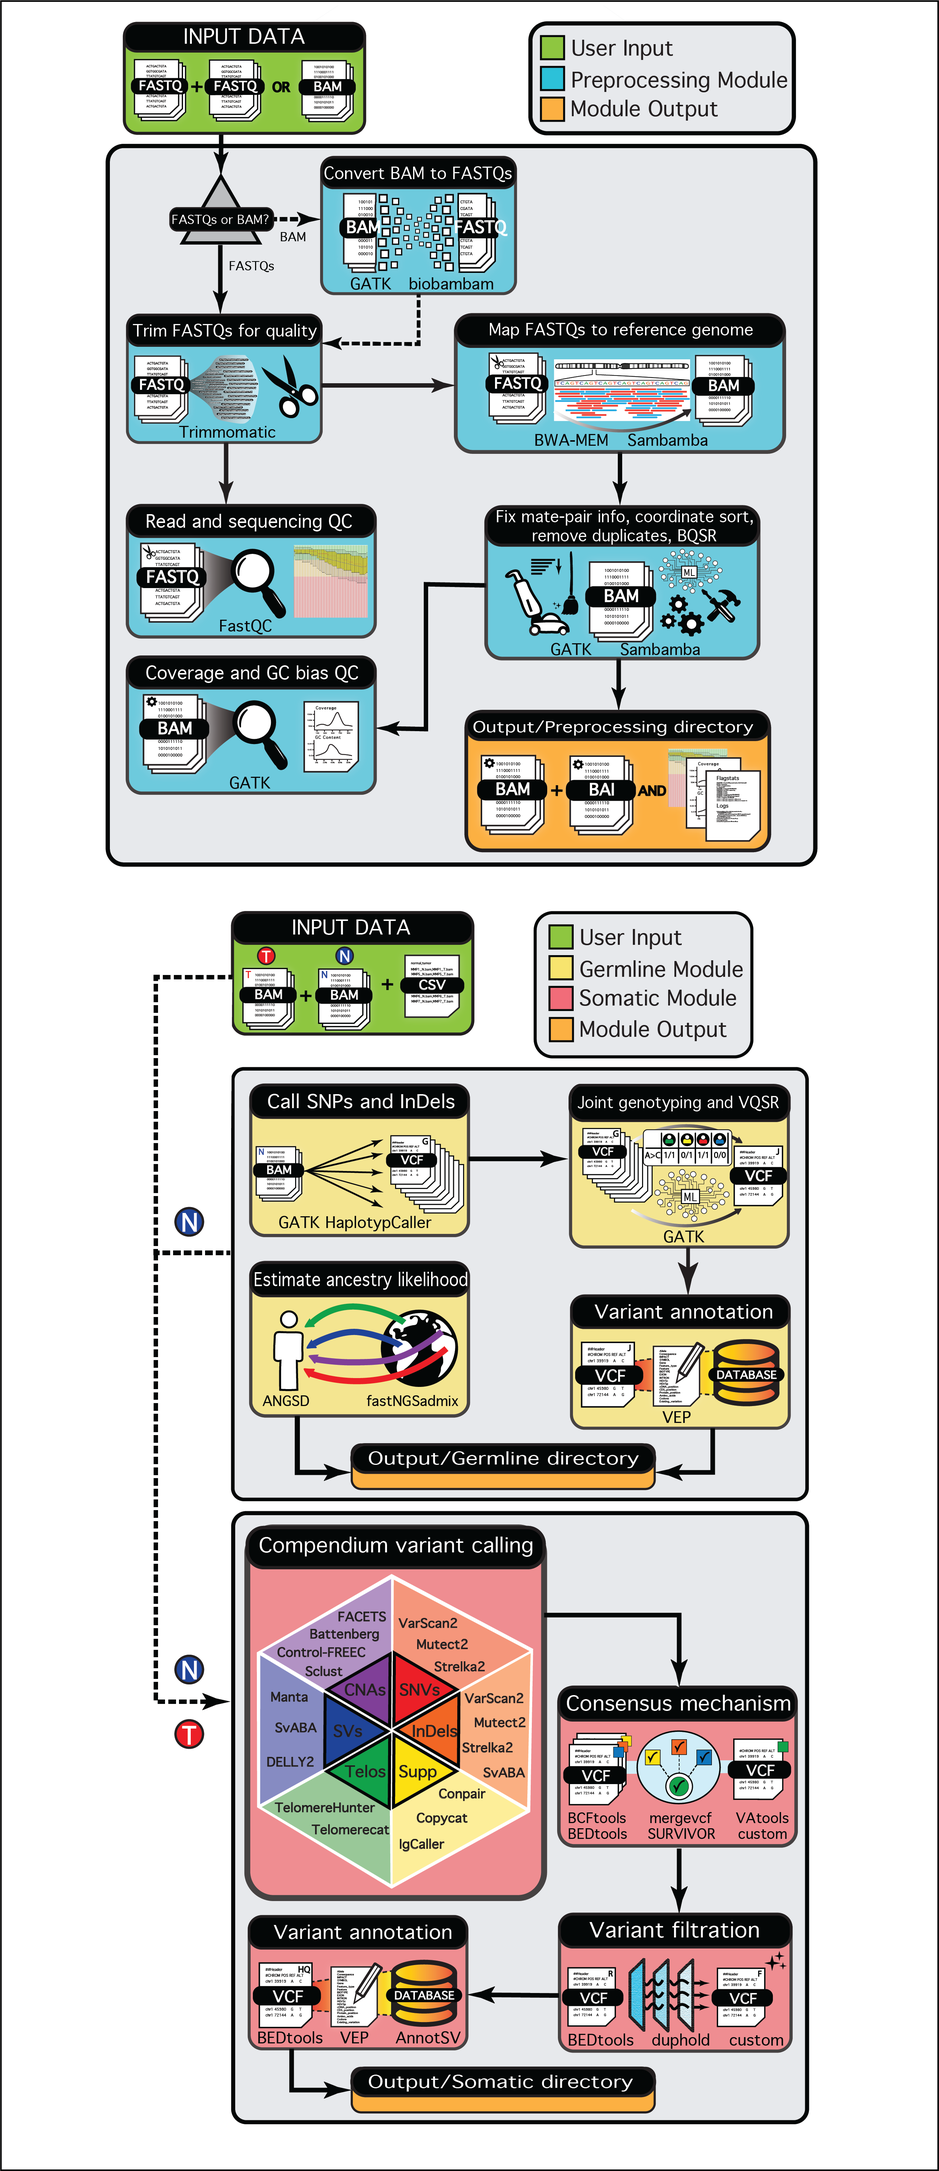
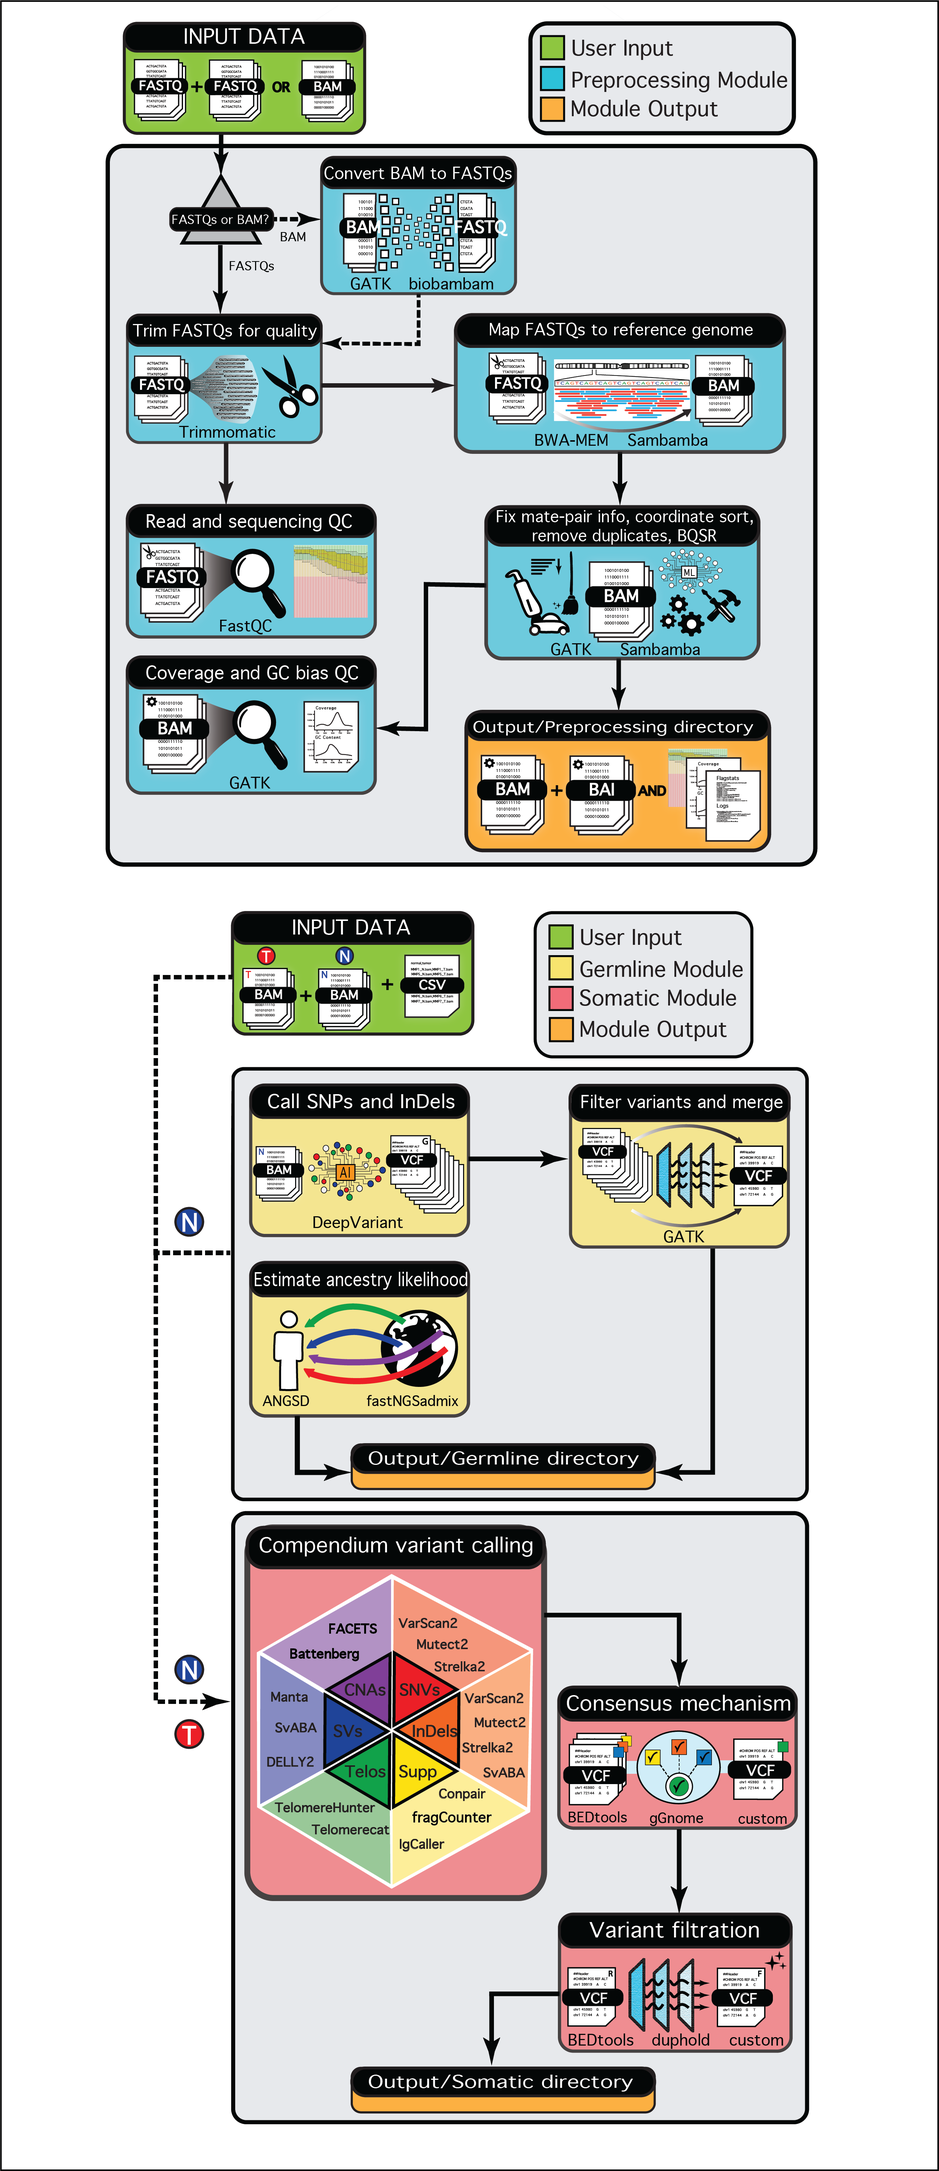
readme update for push to master

diff --git a/README.md b/README.md
@@ -1,5 +1,5 @@
 <div align="center">
-	<img alt="MGP1000 logo" src="https://raw.githubusercontent.com/pblaney/mgp1000/4c6c86d956b30e6b64bdad50619c9f5b76cee2d9/docs/mgp1000Logo.svg" width="275" />
+	<img alt="MGP1000 logo" src="https://raw.githubusercontent.com/pblaney/mgp1000/4c6c86d956b30e6b64bdad50619c9f5b76cee2d9/docs/mgp1000Logo.svg" width="250" />
 
 # Myeloma Genome Pipeline 1000
 Comprehensive bioinformatics pipeline for the large-scale collaborative analysis of Multiple Myeloma genomes in an effort to delineate the broad spectrum of somatic events
@@ -10,7 +10,7 @@ In order to analyze over one thousand matched tumor/normal whole-genome samples 
 
 The entire pipeline is divided into 3 modules: Preprocessing, Germline, and Somatic
 <div align="center">
-	<img alt="Pipeline flowchart" src="https://github.com/pblaney/mgp1000/blob/development/docs/pipelineArchitectureForGitHub.png?raw=true" width="575" />
+	<img alt="Pipeline flowchart" src="https://github.com/pblaney/mgp1000/blob/development/docs/pipelineArchitectureForGitHub.png?raw=true" width="475" />
 </div>
 
 ## Deploying the Pipeline
@@ -122,13 +122,13 @@ $ nextflow run preprocessing.nf --help
 Usage:
   nextflow run preprocessing.nf --run_id STR --input_format STR -profile preprocessing
   [-bg] [-resume] [--lane_split STR] [--input_dir PATH] [--output_dir PATH] [--email STR]
-  [--cpus INT] [--memory STR] [--queue_size INT] [--executor STR] [--help]
+  [--seq_protocol STR][--cpus INT] [--memory STR] [--queue_size INT] [--executor STR] [--help]
 
 Mandatory Arguments:
   --run_id                       STR  Unique identifier for pipeline run
   --input_format                 STR  Format of input files
                                       [Default: fastq | Available: fastq, bam]
-  -profile                       STR  Configuration profile to use, must use preprocessing
+  -profile                       STR  Configuration profile to use, must use preprocessing                               
 
 Main Options:
   -bg                           FLAG  Runs the pipeline processes in the background, this
@@ -149,6 +149,9 @@ Main Options:
                                       [Default: output/]
   --email                        STR  Email address to send workflow completion/stoppage
                                       notification
+  --seq_protocol                 STR  Sequencing protocol of the input, WGS for whole-genome
+                                      and WES for whole-exome
+                                      [Default: WGS | Available: WGS, WES]
   --cpus                         INT  Globally set the number of cpus to be allocated
   --memory                       STR  Globally set the amount of memory to be allocated,
                                       written as '##.GB' or '##.MB'
@@ -184,17 +187,12 @@ make preprocessing-completion
 ## Run the Germline Module
 The most important component of this module of the pipeline is the user-provided sample sheet CSV. This file includes two comma-separated columns: filename of normal sample BAMs and filename of corresponding paired tumor sample BAMs. An example of this is provided in `samplesheet.csv` within the `testSamples` directory. The sample sheet file should typically be within the main `mgp1000` directory.
 
-### Note on Parameters
-There are is a parameter that will prepare necessary reference files as part of this module of the pipeline, `--vep_ref_cached`. This parameter only need be set to `no` for the **first run** of the Germline module.
-
 ```
 nextflow run germline.nf \
   -bg \
   --run_id batch1 \
   --sample_sheet wgs_samples.csv \
-  --cohort_name wgs_set \
   --email user@example.com \
-  --vep_ref_cached no \
   -profile germline
 ```
 
@@ -203,9 +201,9 @@ Here is the full help message for the Germline module.
 $ nextflow run germline.nf --help
 
 Usage:
-  nextflow run germline.nf --run_id STR --sample_sheet FILE --cohort_name STR -profile germline
-  [-bg] [-resume] [--input_dir PATH] [--output_dir PATH] [--email STR] [--fastngsadmix_only STR]
-  [--vep_ref_cached STR] [--cpus INT] [--memory STR] [--queue_size INT] [--executor STR] [--help]
+  nextflow run germline.nf --run_id STR --sample_sheet FILE -profile germline [-bg] [-resume]
+     [--input_dir PATH] [--output_dir PATH] [--email STR] [--fastngsadmix STR] [--seq_protocol STR]
+     [--cpus INT] [--memory STR] [--queue_size INT] [--executor STR] [--help]
 
 Mandatory Arguments:
   --run_id                       STR  Unique identifier for pipeline run
@@ -213,8 +211,6 @@ Mandatory Arguments:
                                       first column designates the file name of the normal
                                       sample, the second column for the file name of the
                                       matched tumor sample
-  --cohort_name                  STR  A user defined collective name of the group of
-                                      samples, this will be used as the name of the output
   -profile                       STR  Configuration profile to use, must use germline
 
 Main Options:
@@ -234,15 +230,14 @@ Main Options:
                                       [Default: output/]
   --email                        STR  Email address to send workflow completion/stoppage
                                       notification
-  --fastngsadmix_only            STR  Indicates whether or not to only run the fastNGSadmix
+  --seq_protocol                 STR  Sequencing protocol of the input, WGS for whole-genome
+                                      and WES for whole-exome
+                                      [Default: WGS | Available: WGS, WES]
+  --deepvariant                  STR  Indicates whether or not to run DeepVariant workflow
+                                      [Default: on | Available: on, off]
+  --fastngsadmix                 STR  Indicates whether or not to only run the fastNGSadmix
                                       workflow
-                                      [Default: no | Available: no, yes]
-  --vep_ref_cached               STR  Indicates whether or not the VEP reference files used
-                                      for annotation have been downloaded/cached locally,
-                                      this will be done in a process of the pipeline if it
-                                      has not, this does not need to be done for every
-                                      separate run after the first
-                                      [Default: yes | Available: yes, no]
+                                      [Default: on | Available: on, off]
   --cpus                         INT  Globally set the number of cpus to be allocated
   --memory                       STR  Globally set the amount of memory to be allocated,
                                       written as '##.GB' or '##.MB'
@@ -254,14 +249,13 @@ Main Options:
 ```
 
 ### Germline Output Description
-This module of the pipeline generates a per-cohort joint genotyped VCF and admixture estimation of individual ancestries in the context of 23 populations outlined in the 1000 Genomes Project. By default, all output files are stored into a subdirectory which is named based on the user-defined `--cohort_name` parameter within the `output/` directory.
+This module of the pipeline generates a per-patient VCF and admixture estimation of individual ancestries in the context of 23 populations outlined in the 1000 Genomes Project. By default, all output files are stored within the `output/` directory.
 
-Here is a snapshot of the expected subdirectories within the `output/germline/[cohort_name]` base directory after a successful run of the [Germline module](https://github.com/pblaney/mgp1000/wiki/Germline):
+Here is a snapshot of the expected subdirectories within the `output/germline/` base directory after a successful run of the [Germline module](https://github.com/pblaney/mgp1000/wiki/Germline):
 
 | Germline Output File | Description of File |
 | --- | --- |
-| `*.germline.annotated.vcf.gz` | filtered and annotated germline SNP VCF |
-| `*.germline.vep.summary.html` | annotation summary HTML file for SNPs |
+| `*.deepvariant.germline.snp.indel.vcf.gz` | germline SNP and InDel VCF |
 | `*.fastngsadmix.23.qopt` | per patient estimated admixture proportions, first two rows with the names of the populations analyzed and the converged upon estimates, and then 100 rows with the bootstrapping estimates |
 
 Upon completion of the Germline module there is a `make germline-completion` command that is useful for collecting the run-related logs.
@@ -274,7 +268,7 @@ make germline-completion
 This module uses the same user-provided sample sheet CSV as the Germline module.
 
 ### Note on Parameters
-There are three parameters that will prepare necessary reference files as part of this module of the pipeline: `--mutect_ref_vcf_concatenated`, `--annotsv_ref_cached`, and `--vep_ref_cached`. These parameters only need be set to `no` for the **first run** of the Somatic module of the pipeline. By default, all tools in this module will be used with the standard command in the usage example. The consensus output per variant type expects all tools to be included in the run for consensus processes to be run.
+There is one parameter that will prepare necessary reference file as part of this module of the pipeline: `--mutect_ref_vcf_concatenated`. This parameters only needs be set to `no` for the **first run** of the Somatic module of the pipeline. By default, all tools in this module will be used with the standard command in the usage example. The consensus output per variant type expects all tools to be included in the run for consensus processes to be run.
 ```
 nextflow run somatic.nf --help
 
@@ -313,25 +307,13 @@ Main Options:
                                       concatenated, this will be done in a process of the
                                       pipeline if it has not, this does not need to be done
                                       for every separate run after the first
-                                      [Default: yes | Available: yes, no]
+                                      [Default: no | Available: yes, no]
   --battenberg_ref_cached        STR  Indicates whether or not the reference files used for
                                       Battenberg have been downloaded/cached locally, this
                                       will be done in a process of the pipeline if it has
                                       not, this does not need to be done for every separate
                                       run after the first
-                                      [Default: yes | Available: yes, no]
-  --annotsv_ref_cached           STR  Indicates whether or not the AnnotSV reference filee
-                                      used for annotation have been downloaded/cached
-                                      locally, this will be done in a process of the
-                                      pipeline if it has not, this does not need to be done
-                                      for every separate run after the first
-                                      [Default: yes | Available: yes, no]
-  --vep_ref_cached               STR  Indicates whether or not the VEP reference files used
-                                      for annotation have been downloaded/cached locally,
-                                      this will be done in a process of the pipeline if it
-                                      has not, this does not need to be done for every
-                                      separate run after the first
-                                      [Default: yes | Available: yes, no]
+                                      [Default: no | Available: yes, no]
   --cpus                         INT  Globally set the number of cpus to be allocated
   --memory                       STR  Globally set the amount of memory to be allocated,
                                       written as '##.GB' or '##.MB'
@@ -342,54 +324,22 @@ Main Options:
   --help                        FLAG  Prints this message
 
 Toolbox Options:
-  --telomerecat                  STR  Indicates whether or not to use this tool
-                                      [Default: on | Available: off, on]
-  --telomerehunter               STR  Indicates whether or not to use this tool
-                                      [Default: on | Available: off, on]
-  --conpair                      STR  Indicates whether or not to use this tool
-                                      [Default: on | Available: off, on]
-  --varscan                      STR  Indicates whether or not to use this tool
-                                      [Default: on | Available: off, on]
-  --mutect                       STR  Indicates whether or not to use this tool
-                                      [Default: on | Available: off, on]
-  --strelka                      STR  Indicates whether or not to use this tool
-                                      [Default: on | Available: off, on]
-  --copycat                      STR  Indicates whether or not to use this tool
-                                      [Default: on | Available: off, on]
   --battenberg                   STR  Indicates whether or not to use this tool
                                       [Default: on | Available: off, on]
   --battenberg_min_depth         STR  Manually set the minimum read depth in the normal
                                       sample for SNP filtering in BAF calculations,
                                       default is for 30x coverage
                                       [Default: 10]
-  --controlfreec                 STR  Indicates whether or not to use this tool
-                                      [Default: on | Available: off, on]
-  --controlfreec_read_length     STR  Manually set the read length to be used for the
-                                      mappability
-                                      [Default: 151]
-  --controlfreec_bp_threshold  FLOAT  Manually set the breakpoint threshold value, lower if
-                                      the sample is expected to have large number of CNV
-                                      segments or increase for the opposite assumption
-                                      [Default: 0.8]
-  --controlfreec_ploidy          INT  Manually set the ploidy value
-                                      [Default: 2 | Available: 3, 4]
-  --sclust                       STR  Indicates whether or not to use this tool
-                                      [Default: on | Available: off, on]
-  --sclust_minp                FLOAT  Manually set the minimal expected ploidy
-                                      [Default: 1.5]
-  --sclust_maxp                FLOAT  Manually set the maximal expected ploidy
-                                      [Default: 4.5]
-  --sclust_mutclustering         STR  Manually turn on or off the mutational clustering step
-                                      of the Sclust process, turn off if a solution cannot be
-                                      reached after lowering lambda value
-                                      [Default: on | Available: off]
-  --sclust_lambda                STR  Manually set the degree of smoothing for clustering
-                                      mutations, increasing the value should resolve issues
-                                      with QP iterations related errors
-                                      [Default: 1e-7]
+  --battenberg_preset_rho_psi    STR  Wish to manually set the rho/psi for this run?
+                                      If TRUE, must set both rho and psi.
+                                      [Default: FALSE | Available: FALSE, TRUE]
+  --battenberg_preset_rho        INT  Manually set the value of rho (purity)
+                                      [Default: NA]
+  --battenberg_preset_psi        INT  Manually set the value of psi (ploidy)
+                                      [Default: NA]
   --facets                       STR  Indicates whether or not to use this tool
                                       [Default: on | Available: off, on]
-  --facets_min_depth             STR  Manually set the minimum read depth in the normal
+  --facets_min_depth             INT  Manually set the minimum read depth in the normal
                                       sample for SNP filtering in BAF calculations,
                                       default is for 30x coverage
                                       [Default: 20]
@@ -399,33 +349,42 @@ Toolbox Options:
                                       [Default: on | Available: off, on]
   --delly                        STR  Indicates whether or not to use this tool
                                       [Default: on | Available: off, on]
+  --delly_strict                 STR  Enforce stricter thresholds for calling SVs with DELLY
+                                      to overcome libraries with extraordinary number of
+                                      interchromosomal reads
+                                      [Default: off | Available: off, on]
   --igcaller                     STR  Indicates whether or not to use this tool
                                       [Default: on | Available: off, on]
-
-Consensus Workflow Options:
-  --min_consensus_snv_callers    INT  Set minimum of caller agreement for SNV consensus
-                                      [Default: 2]
-  --min_consensus_indel_callers  INT  Set minimum of caller agreement for InDel consensus
-                                      [Default: 2]
+  --varscan                      STR  Indicates whether or not to use this tool
+                                      [Default: on | Available: off, on]
+  --mutect                       STR  Indicates whether or not to use this tool
+                                      [Default: on | Available: off, on]
+  --strelka                      STR  Indicates whether or not to use this tool
+                                      [Default: on | Available: off, on]
+  --conpair                      STR  Indicates whether or not to use this tool
+                                      [Default: on | Available: off, on]
+  --conpair_min_cov              INT  Manually set the minimum coverage
+                                      [Default: 10]
+  --fragcounter                  STR  Indicates whether or not to use this tool
+                                      [Default: on | Available: off, on]
+  --telomerecat                  STR  Indicates whether or not to use this tool
+                                      [Default: off | Available: off, on]
+  --telomerehunter               STR  Indicates whether or not to use this tool
+                                      [Default: off | Available: off, on]
 ```
 
 ### Somatic Output Description
-This module of the pipeline generates per tumor-normal pair consensus calls for SNVs, InDels, CNVs, and SVs, capture telomere length and composition, and aggregate metadata information on tumor-normal concordance, contamination, purity, ploidy, and subclonal populations. Each tool used has its native output kept within a self-named subdirectory while the final consensus output files per tumor-normal pair are funneled into the `consensus` subdirectory.
+This module of the pipeline generates per tumor-normal pair consensus calls for SNVs, InDels, CNVs, and SVs, with some additional supporting tools for telomere analysis and graph-based inference of rearrangement state. Each tool used has its native output kept within a self-named subdirectory while the final consensus output files per tumor-normal pair are funneled into the `consensus` subdirectory.
 
 Here is a snapshot of the final `output/somatic/consensus/[tumor_normal_id]` directory after a successful run of the [Somatic module](https://github.com/pblaney/mgp1000/wiki/Somatic):
 
 | Somatic Consensus Output File | Description of File |
 | --- | --- |
-| `*.hq.consensus.somatic.snv.annotated.vcf.gz` | filtered and annotated consensus SNV VCF |
-| `*.hq.consensus.somatic.snv.vep.summary.html` | annotation summary HTML file for SNVs |
-| `*.hq.consensus.somatic.indel.annotated.vcf.gz` | filtered and annotated consensus InDel VCF |
-| `*.hq.consensus.somatic.indel.vep.summary.html` | annotation summary HTML file for InDels |
-| `*.hq.consensus.somatic.cnv.annotated.bed` | consensus annotated CNV BED |
-| `*.consensus.somatic.cnvalleles.merged.bed` | all per segment CNV calls per tool |
-| `*.consensus.somatic.cnv.subclonal.txt` | aggregated subclonal population estimates |
-| `*.hq.consensus.somatic.sv.annotated.bedpe` | consensus annotated SV BEDPE |
-| `*.hq.consensus.somatic.sv.annotated.genesplit.bed` | annotations per each gene overlapped by SV in BEDPE |
-| `*.consensus.somatic.metadata.txt` | aggregated metadata |
+| `*.hq.union.consensus.somatic.snv.txt.gz` | consensus SNV table |
+| `*.hq.union.consensus.somatic.indel.txt.gz` | consensus InDel table |
+| `*.hq.union.consensus.somatic.cnv.bed` | consensus CNV BED |
+| `*.hq.union.consensus.somatic.sv.bedpe` | consensus SV BEDPE |
+| `*.hq.union.consensus.somatic.sv.intersection.plot.pdf` | intersection of SV caller consensus |
 
 Additional per-tool subdirectories included in the base `output/somatic` output directory:
 
@@ -433,14 +392,11 @@ Additional per-tool subdirectories included in the base `output/somatic` output 
 | --- | --- |
 | `battenberg` | native output of Battenberg |
 | `conpair` | native output of Conpair |
-| `controlFreec` | native output of Control-FREEC |
-| `copycat` | read coverage per 10kb bins for CNV/SV support |
 | `delly` | native output of DELLY2 |
 | `facets` | native output of FACETS |
 | `igcaller` | native output of IgCaller |
 | `manta` | native output of Manta |
 | `mutect` | native output of Mutect2 |
-| `sclust` | native output of Sclust |
 | `sexOfSamples` | sample sex estimation using alleleCount |
 | `strelka` | native output of Strelka2 |
 | `svaba` | native output of SvABA |
